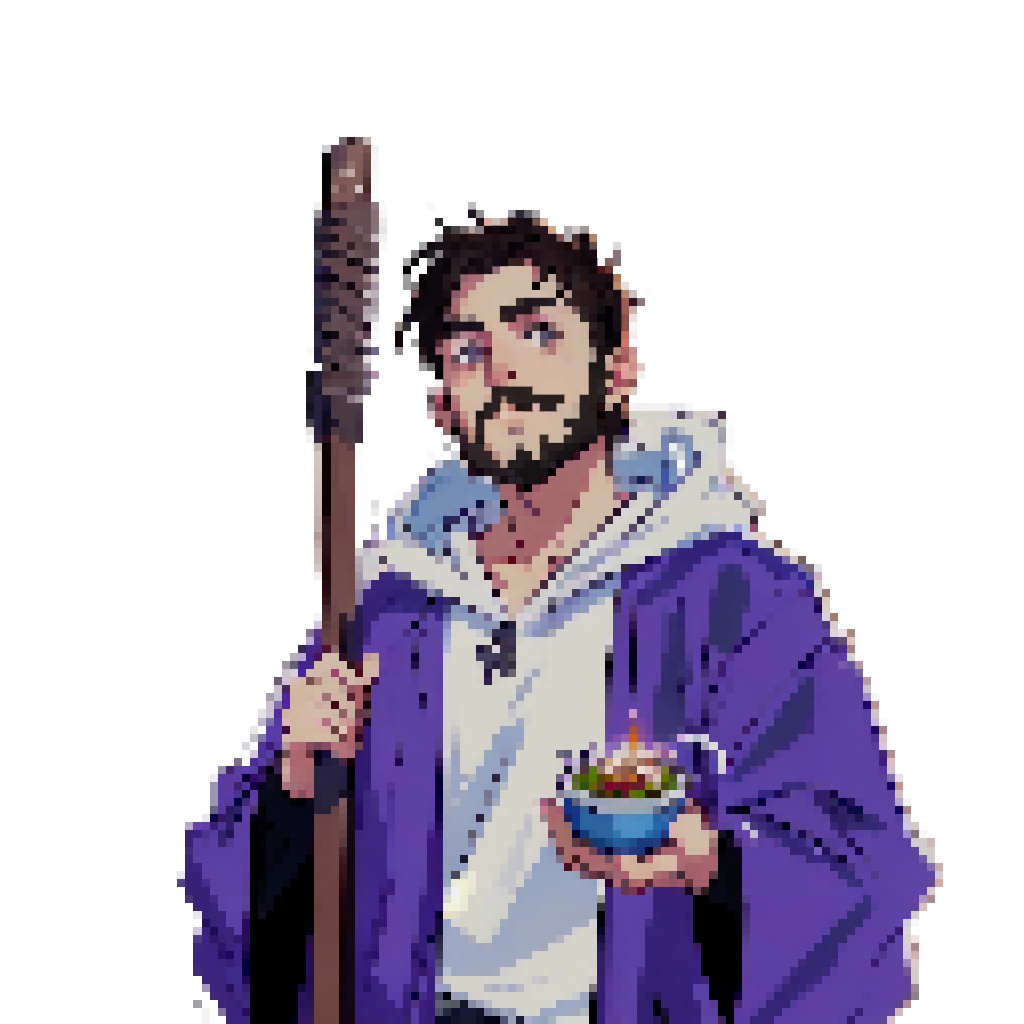
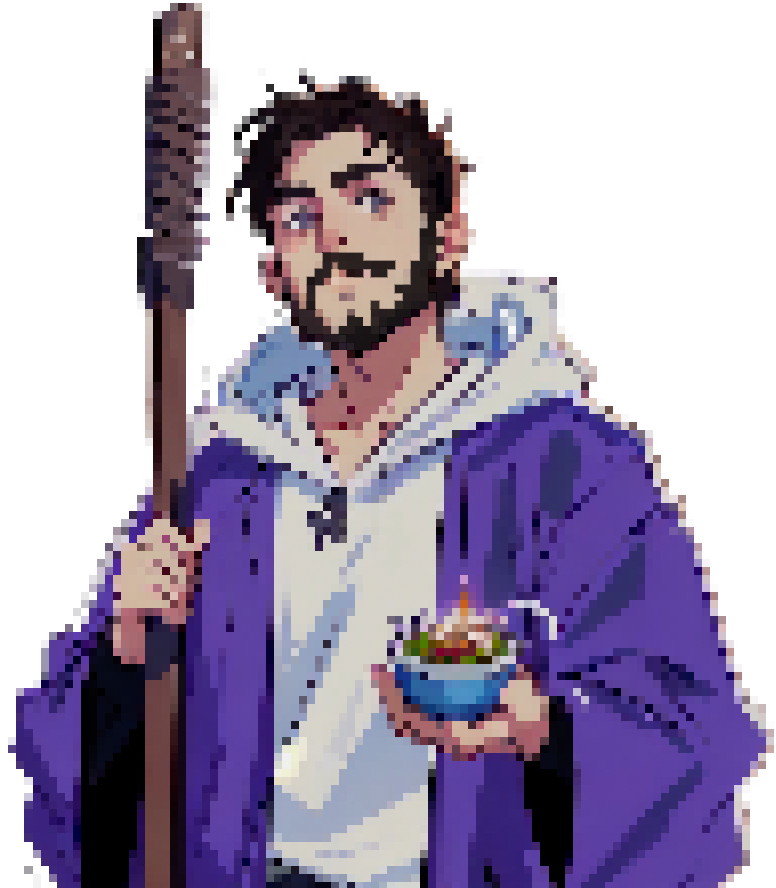
styles and mediaQ

diff --git a/src/components/Home/Home.scss b/src/components/Home/Home.scss
@@ -12,9 +12,10 @@
     left: 50%;
 
     img {
-      width: 720px;
-      height: 720px;
-      bottom: 0;
+      position: absolute;
+      bottom: -13%;
+      width: 60%;
+      height: 80%;
     }
   }
 }
@@ -121,6 +122,23 @@
 @media screen and (max-width: 900px) {
   .home-page {
     overflow: hidden;
+
+    .logo-container {
+      width: 50%;
+      position: relative;
+      left: 0;
+      z-index: auto;
+      height: 400px;
+      width: 350px;
+      margin: 0 auto;
+      img {
+        width: 100%;
+        height: 100%;
+        bottom: 0;
+        left: auto;
+        right: auto;
+      }
+    }
     .text-zone {
       .welcome {
         justify-content: center;
@@ -135,13 +153,6 @@
       box-sizing: border-box;
       text-align: center;
       margin: 0 auto;
-    }
-    .logo-container {
-      position: initial;
-      width: 100%;
-      top: 0;
-      height: 0%;
-      margin-right: 25px;
     }
     .flat_button {
       float: none;

diff --git a/src/components/Contact/Contact.scss b/src/components/Contact/Contact.scss
@@ -86,18 +86,5 @@
     .contact-form {
       box-sizing: border-box;
     }
-
-    .logo-container {
-      position: relative;
-      width: 400px;
-      height: 400px;
-      box-sizing: border-box;
-      object-fit: contain;
-
-      img {
-        width: 100%;
-        height: 100%;
-      }
-    }
   }
 }
